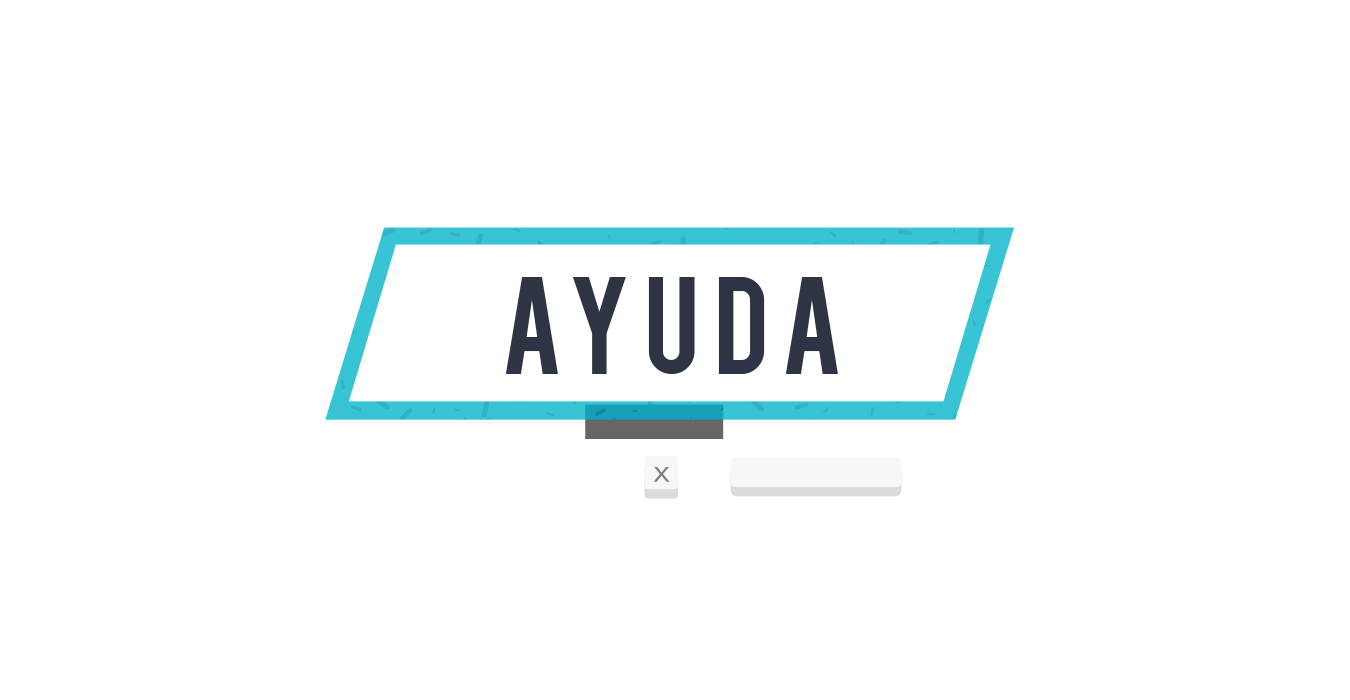
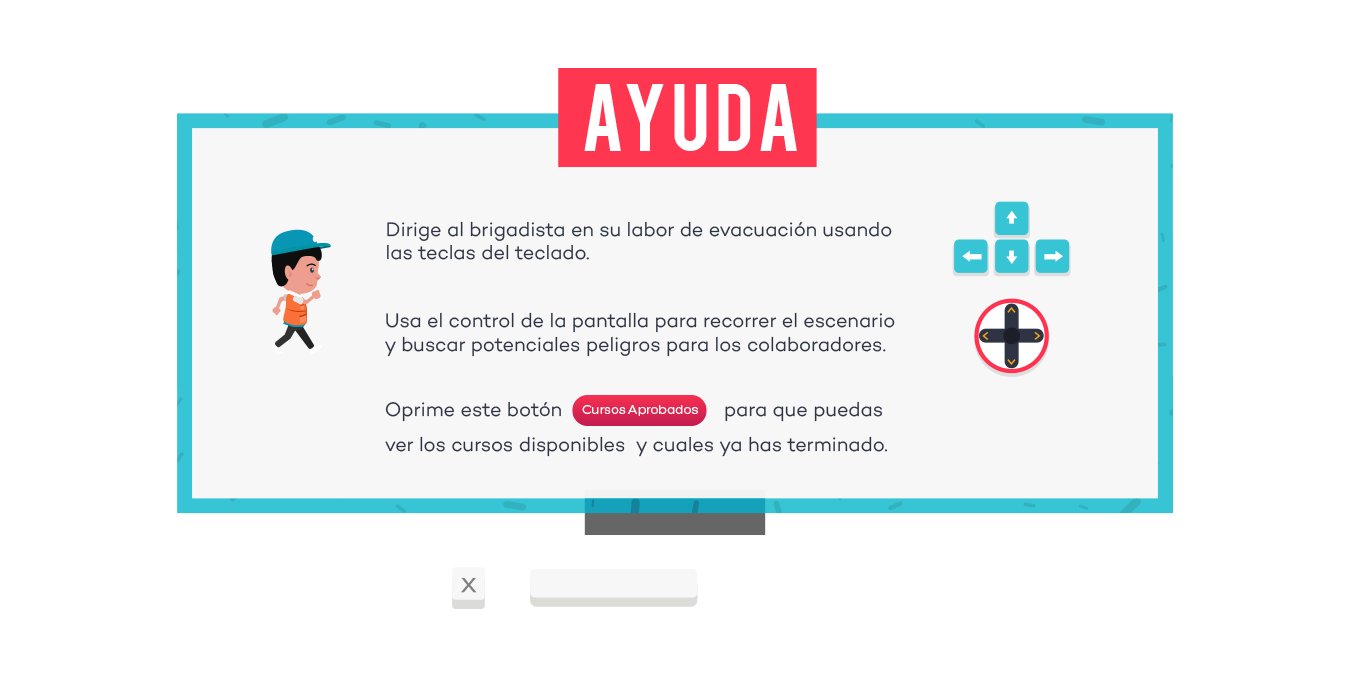
Actualizacion y optimizcion de Pausas Activas

Changed region(s): [[0.1244, 0.09, 0.8711, 0.78], [0.3111, 0.84, 0.5289, 0.87]]

diff --git a/assets/nivel10/pausas-driver/css/estGeneral.css b/assets/nivel10/pausas-driver/css/estGeneral.css
@@ -65,6 +65,7 @@ body{
 .touchIsOn #instrucciones_3{ background: url(../images/bginst3.png) no-repeat center center; }
 #instrucciones_4{ background: url(../images/bginst4.png) no-repeat center center; }
 #instrucciones_5{ background: url(../images/bginst5.png) no-repeat center center; }
+#instrucciones_6{ background: url(../images/precaucion.jpg) no-repeat center center; }
 .btnPrev{
     position: absolute;
     width: 33px; height: 80px;
@@ -75,6 +76,7 @@ body{
 #btnPrev_3{ left: 160px; top: 310px; }
 #btnPrev_4{ left: 160px; top: 310px; }
 #btnPrev_5{ left: 160px; top: 310px; }
+#btnPrev_6{ left: 160px; top: 310px; }
 .btnNext{
     position: absolute;
     width: 33px; height: 80px;
@@ -85,6 +87,7 @@ body{
 #btnNext_2{ right: 160px; top: 310px; }
 #btnNext_3{ right: 160px; top: 310px; }
 #btnNext_4{ right: 160px; top: 310px; }
+#btnNext_5{ right: 160px; top: 310px; }
 #btnJugar{
     position:absolute;
     width:167px; height:71px;

diff --git a/assets/nivel10/pausas-oficina/css/estGeneral.css b/assets/nivel10/pausas-oficina/css/estGeneral.css
@@ -65,6 +65,7 @@ body{
 .touchIsOn #instrucciones_3{ background: url(../images/bginst3.png) no-repeat center center; }
 #instrucciones_4{ background: url(../images/bginst4.png) no-repeat center center; }
 #instrucciones_5{ background: url(../images/bginst5.png) no-repeat center center; }
+#instrucciones_6{ background: url(../images/precaucion.jpg) no-repeat center center; }
 .btnPrev{
     position: absolute;
     width: 33px; height: 80px;
@@ -75,6 +76,7 @@ body{
 #btnPrev_3{ left: 160px; top: 310px; }
 #btnPrev_4{ left: 160px; top: 310px; }
 #btnPrev_5{ left: 160px; top: 310px; }
+#btnPrev_6{ left: 160px; top: 310px; }
 .btnNext{
     position: absolute;
     width: 33px; height: 80px;
@@ -85,6 +87,7 @@ body{
 #btnNext_2{ right: 160px; top: 310px; }
 #btnNext_3{ right: 160px; top: 310px; }
 #btnNext_4{ right: 160px; top: 310px; }
+#btnNext_5{ right: 160px; top: 310px; }
 #btnJugar{
     position:absolute;
     width:167px; height:71px;

diff --git a/assets/nivel10/pausas-planta/css/estGeneral.css b/assets/nivel10/pausas-planta/css/estGeneral.css
@@ -65,6 +65,7 @@ body{
 .touchIsOn #instrucciones_3{ background: url(../images/bginst3.png) no-repeat center center; }
 #instrucciones_4{ background: url(../images/bginst4.png) no-repeat center center; }
 #instrucciones_5{ background: url(../images/bginst5.png) no-repeat center center; }
+#instrucciones_6{ background: url(../images/precaucion.jpg) no-repeat center center; }
 .btnPrev{
     position: absolute;
     width: 33px; height: 80px;
@@ -75,6 +76,7 @@ body{
 #btnPrev_3{ left: 160px; top: 310px; }
 #btnPrev_4{ left: 160px; top: 310px; }
 #btnPrev_5{ left: 160px; top: 310px; }
+#btnPrev_6{ left: 160px; top: 310px; }
 .btnNext{
     position: absolute;
     width: 33px; height: 80px;
@@ -85,6 +87,7 @@ body{
 #btnNext_2{ right: 160px; top: 310px; }
 #btnNext_3{ right: 160px; top: 310px; }
 #btnNext_4{ right: 160px; top: 310px; }
+#btnNext_5{ right: 160px; top: 310px; }
 #btnJugar{
     position:absolute;
     width:167px; height:71px;

diff --git a/assets/nivel10/pausas-restaurante/css/estGeneral.css b/assets/nivel10/pausas-restaurante/css/estGeneral.css
@@ -65,6 +65,7 @@ body{
 .touchIsOn #instrucciones_3{ background: url(../images/bginst3.png) no-repeat center center; }
 #instrucciones_4{ background: url(../images/bginst4.png) no-repeat center center; }
 #instrucciones_5{ background: url(../images/bginst5.png) no-repeat center center; }
+#instrucciones_6{ background: url(../images/precaucion.jpg) no-repeat center center; }
 .btnPrev{
     position: absolute;
     width: 33px; height: 80px;
@@ -75,6 +76,7 @@ body{
 #btnPrev_3{ left: 160px; top: 310px; }
 #btnPrev_4{ left: 160px; top: 310px; }
 #btnPrev_5{ left: 160px; top: 310px; }
+#btnPrev_6{ left: 160px; top: 310px; }
 .btnNext{
     position: absolute;
     width: 33px; height: 80px;
@@ -85,6 +87,7 @@ body{
 #btnNext_2{ right: 160px; top: 310px; }
 #btnNext_3{ right: 160px; top: 310px; }
 #btnNext_4{ right: 160px; top: 310px; }
+#btnNext_5{ right: 160px; top: 310px; }
 #btnJugar{
     position:absolute;
     width:167px; height:71px;

diff --git a/assets/nivel10/pausas-driver/js/controlPuntos1.js b/assets/nivel10/pausas-driver/js/controlPuntos1.js
@@ -4,7 +4,7 @@
 
 var canvas, stage, exportRoot, anim_container, dom_overlay_container, fnStartAnimation;
 function init() {
-    console.log('A1 init');
+    console.log('init');
     canvas = document.getElementById("canvas");
     anim_container = document.getElementById("animation_container");
     dom_overlay_container = document.getElementById("dom_overlay_container");
@@ -20,11 +20,9 @@ function init() {
 }
 function handleFileLoad(evt, comp) {
     var images=comp.getImages();  
-    console.log('A2 init function', images);  
     if (evt && (evt.item.type == "image")) { images[evt.item.id] = evt.result; }    
 }
 function handleComplete(evt,comp) {
-    console.log('A3 handleComplete', evt, comp); 
     //This function is always called, irrespective of the content. You can use the variable "stage" after it is created in token create_stage.
     var lib=comp.getLibrary();
     var ss=comp.getSpriteSheet();

diff --git a/assets/nivel10/pausas-planta/js/controlPuntos1.js b/assets/nivel10/pausas-planta/js/controlPuntos1.js
@@ -19,12 +19,10 @@ function init() {
     loader.loadManifest(lib.properties.manifest);
 }
 function handleFileLoad(evt, comp) {
-    var images=comp.getImages();    
-    console.log('A2 init function', images);  
+    var images=comp.getImages();   
     if (evt && (evt.item.type == "image")) { images[evt.item.id] = evt.result; }    
 }
 function handleComplete(evt,comp) {
-    console.log('A3 handleComplete', evt, comp); 
     //This function is always called, irrespective of the content. You can use the variable "stage" after it is created in token create_stage.
     var lib=comp.getLibrary();
     var ss=comp.getSpriteSheet();

diff --git a/assets/nivel10/pausas-restaurante/js/inicio.js b/assets/nivel10/pausas-restaurante/js/inicio.js
@@ -23,7 +23,9 @@ function initSonidos() {
     });
 }
 function initBotones() {
-    console.log('inicia juego');
+    
+    init();
+
     $('#nextInt_1').click(function () {
         playSound(window.audioCatch);
         $('.instr').stop().fadeOut(100);
@@ -58,7 +60,7 @@ function initBotones() {
         var j = id + 1;
         $('#instrucciones_' + j).stop().fadeIn(500);
         playTexto(window['txti' + j]);
-        if(id==2){ init();  }
+        //if(id==2){ init();  }
     });
     $('#btnJugar').click(function () {
         $(this).addClass('btn_desabilita');

diff --git a/assets/nivel10/pausas-oficina/js/controlPuntos1.js b/assets/nivel10/pausas-oficina/js/controlPuntos1.js
@@ -20,11 +20,9 @@ function init() {
 }
 function handleFileLoad(evt, comp) {
     var images=comp.getImages();    
-    console.log('A2 init function', images);  
     if (evt && (evt.item.type == "image")) { images[evt.item.id] = evt.result; }    
 }
 function handleComplete(evt,comp) {
-    console.log('A3 handleComplete', evt, comp); 
     //This function is always called, irrespective of the content. You can use the variable "stage" after it is created in token create_stage.
     var lib=comp.getLibrary();
     var ss=comp.getSpriteSheet();

diff --git a/assets/nivel10/pausas-restaurante/js/controlPuntos1.js b/assets/nivel10/pausas-restaurante/js/controlPuntos1.js
@@ -20,11 +20,9 @@ function init() {
 }
 function handleFileLoad(evt, comp) {
     var images=comp.getImages();    
-    console.log('A2 init function', images);  
     if (evt && (evt.item.type == "image")) { images[evt.item.id] = evt.result; }    
 }
 function handleComplete(evt,comp) {
-    console.log('A3 handleComplete', evt, comp); 
     //This function is always called, irrespective of the content. You can use the variable "stage" after it is created in token create_stage.
     var lib=comp.getLibrary();
     var ss=comp.getSpriteSheet();

diff --git a/assets/nivel10/pausas-oficina/js/inicio.js b/assets/nivel10/pausas-oficina/js/inicio.js
@@ -23,6 +23,9 @@ function initSonidos() {
     });
 }
 function initBotones() {
+    
+    init();
+
     $('#nextInt_1').click(function () {
         playSound(window.audioCatch);
         $('.instr').stop().fadeOut(100);
@@ -58,7 +61,7 @@ function initBotones() {
         var j = id + 1;
         $('#instrucciones_' + j).stop().fadeIn(500);
         playTexto(window['txti' + j]);
-        if(id==2){ init(); }
+        //if(id==2){ init(); }
     });
     $('#btnJugar').click(function () {
         $(this).addClass('btn_desabilita');

diff --git a/assets/nivel10/pausas-driver/js/inicio.js b/assets/nivel10/pausas-driver/js/inicio.js
@@ -24,6 +24,8 @@ function initSonidos() {
     });
 }
 function initBotones() {
+    
+    init();
 
     $('#nextInt_1').click(function () {
         playSound(window.audioCatch);
@@ -61,7 +63,7 @@ function initBotones() {
         $('#instrucciones_' + j).stop().fadeIn(500);
         playTexto(window['txti' + j]);
         console.log(id);
-        if(id==2){ init(); }
+        //if(id==2){ init(); }
     });
     $('#btnJugar').click(function () {
         $(this).addClass('btn_desabilita');

diff --git a/assets/nivel10/pausas-planta/js/inicio.js b/assets/nivel10/pausas-planta/js/inicio.js
@@ -23,6 +23,8 @@ function initSonidos() {
     });
 }
 function initBotones() {
+    
+    init();
 
     $('#nextInt_1').click(function () {
         playSound(window.audioCatch);
@@ -59,7 +61,7 @@ function initBotones() {
         var j = id + 1;
         $('#instrucciones_' + j).stop().fadeIn(500);
         playTexto(window['txti' + j]);
-        if(id==2){ init(); }
+        //if(id==2){ init(); }
     });
     $('#btnJugar').click(function () {
         $(this).addClass('btn_desabilita');
